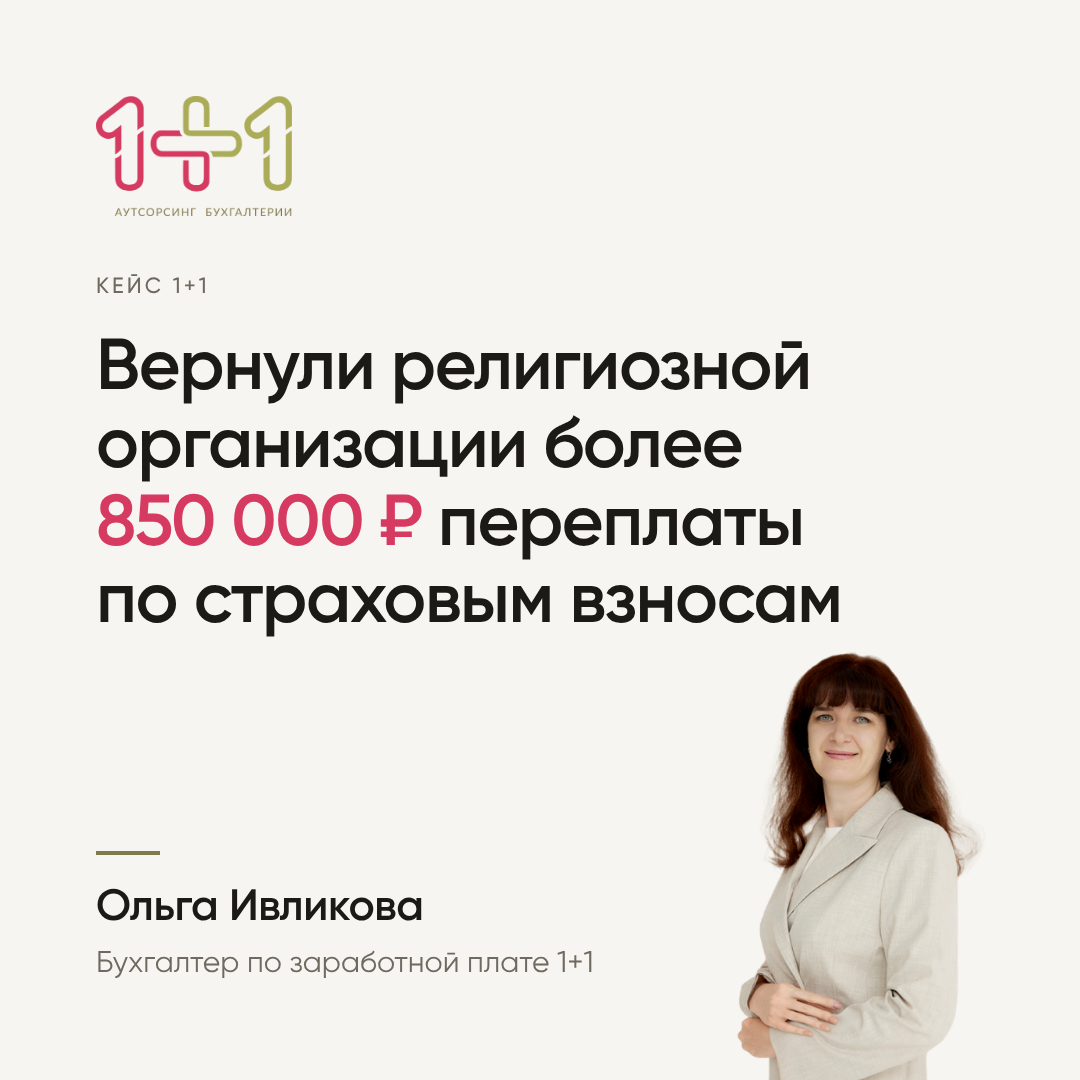
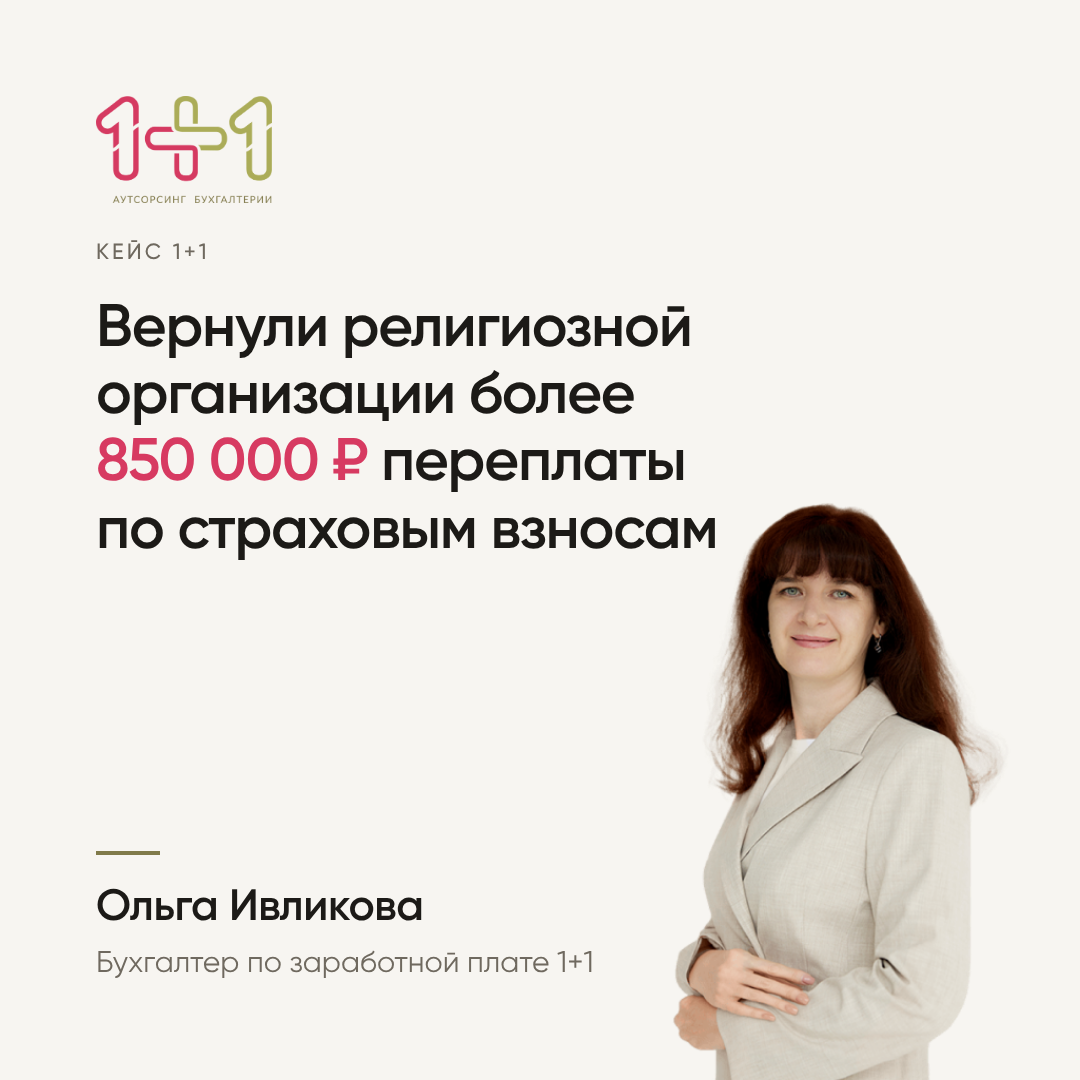
Enlarge expert portrait in case layout
Claude-Session: https://claude.ai/code/session_01VZ7Hrkur6jxoGp5f6QSiLJ

Changed region(s): [[0.0917, 0.0917, 0.9472, 1.0], [0.8556, 0.9472, 0.8861, 0.9778], [0.7944, 0.9778, 0.825, 1.0]]

diff --git a/specimens/v9-case.html b/specimens/v9-case.html
@@ -2,12 +2,12 @@
 <link rel="stylesheet" href="base.css">
 <style>
 .canvas{background:var(--paper)}
-.logo{width:196px}
-.text{position:absolute;left:96px;right:96px;top:274px;color:var(--graphite)}
+.logo{width:176px}
+.text{position:absolute;left:96px;right:96px;top:240px;color:var(--graphite)}
 .label{font-weight:500;font-size:22px;letter-spacing:.14em;color:var(--stone);text-transform:uppercase;margin-bottom:30px}
-h1{font-weight:600;font-size:72px;line-height:1.08;letter-spacing:-.02em}
+h1{font-weight:600;font-size:60px;line-height:1.12;letter-spacing:-.02em}
 h1 em{font-style:normal;color:var(--crimson)}
-.expert{position:absolute;right:56px;bottom:0;height:430px;display:block}
+.expert{position:absolute;right:20px;bottom:0;height:580px;display:block}
 .by{position:absolute;left:96px;bottom:96px}
 .by i{display:block;width:64px;height:4px;background:var(--olive);margin-bottom:26px}
 .by b{display:block;font-weight:600;font-size:44px;letter-spacing:-.01em;color:var(--graphite)}
@@ -17,7 +17,7 @@ h1 em{font-style:normal;color:var(--crimson)}
   <img class="logo" src="../assets/logo-full.png" alt="">
   <div class="text">
     <div class="label">Кейс 1+1</div>
-    <h1>Вернули религиозной организации более <em>850&nbsp;000&nbsp;₽</em> переплаты по&nbsp;страховым взносам</h1>
+    <h1>Вернули религиозной<br>организации более<br><em>850&nbsp;000&nbsp;₽</em> переплаты<br>по&nbsp;страховым взносам</h1>
   </div>
   <img class="expert" src="../assets/experts/ivlikova-olga.png" alt="">
   <div class="by"><i></i><b>Ольга Ивликова</b><span>Бухгалтер по&nbsp;заработной плате 1+1</span></div>

diff --git a/docs/layout-catalog.md b/docs/layout-catalog.md
@@ -109,12 +109,13 @@
 ## V9 · Кейс с экспертом
 
 - **Когда:** результат для клиента, портрет сотрудника.
-- **Герой:** заголовок 72 px SemiBold, до 80 знаков, четыре строки; сумма или результат малиновыми.
+- **Герой:** заголовок 60 px SemiBold, до 80 знаков, четыре строки с ручными переносами; сумма или результат малиновыми.
 - **Слоты:** метка («КЕЙС 1+1»), заголовок, имя (44 px SemiBold), должность (30 px Regular `stone`),
   портрет-вырезка PNG (`assets/experts/`).
-- **Размещение:** портрет внизу справа, высота 430, обрезан нижним краем; подпись внизу слева с
+- **Размещение:** портрет внизу справа, высота 580 (около 55% холста), обрезан нижним краем; подпись внизу слева с
   оливковой чертой 64×4.
-- **Лимит:** портрет не заходит под заголовок; между ними не меньше 24 px.
+- **Лимит:** портрет не заходит под заголовок; между последней строкой и волосами не меньше 24 px. Исходник
+  портрета не меньше 450×550 px, без увеличения больше чем в 1,1 раза.
 - **Фон:** `paper`.
 
 ---
